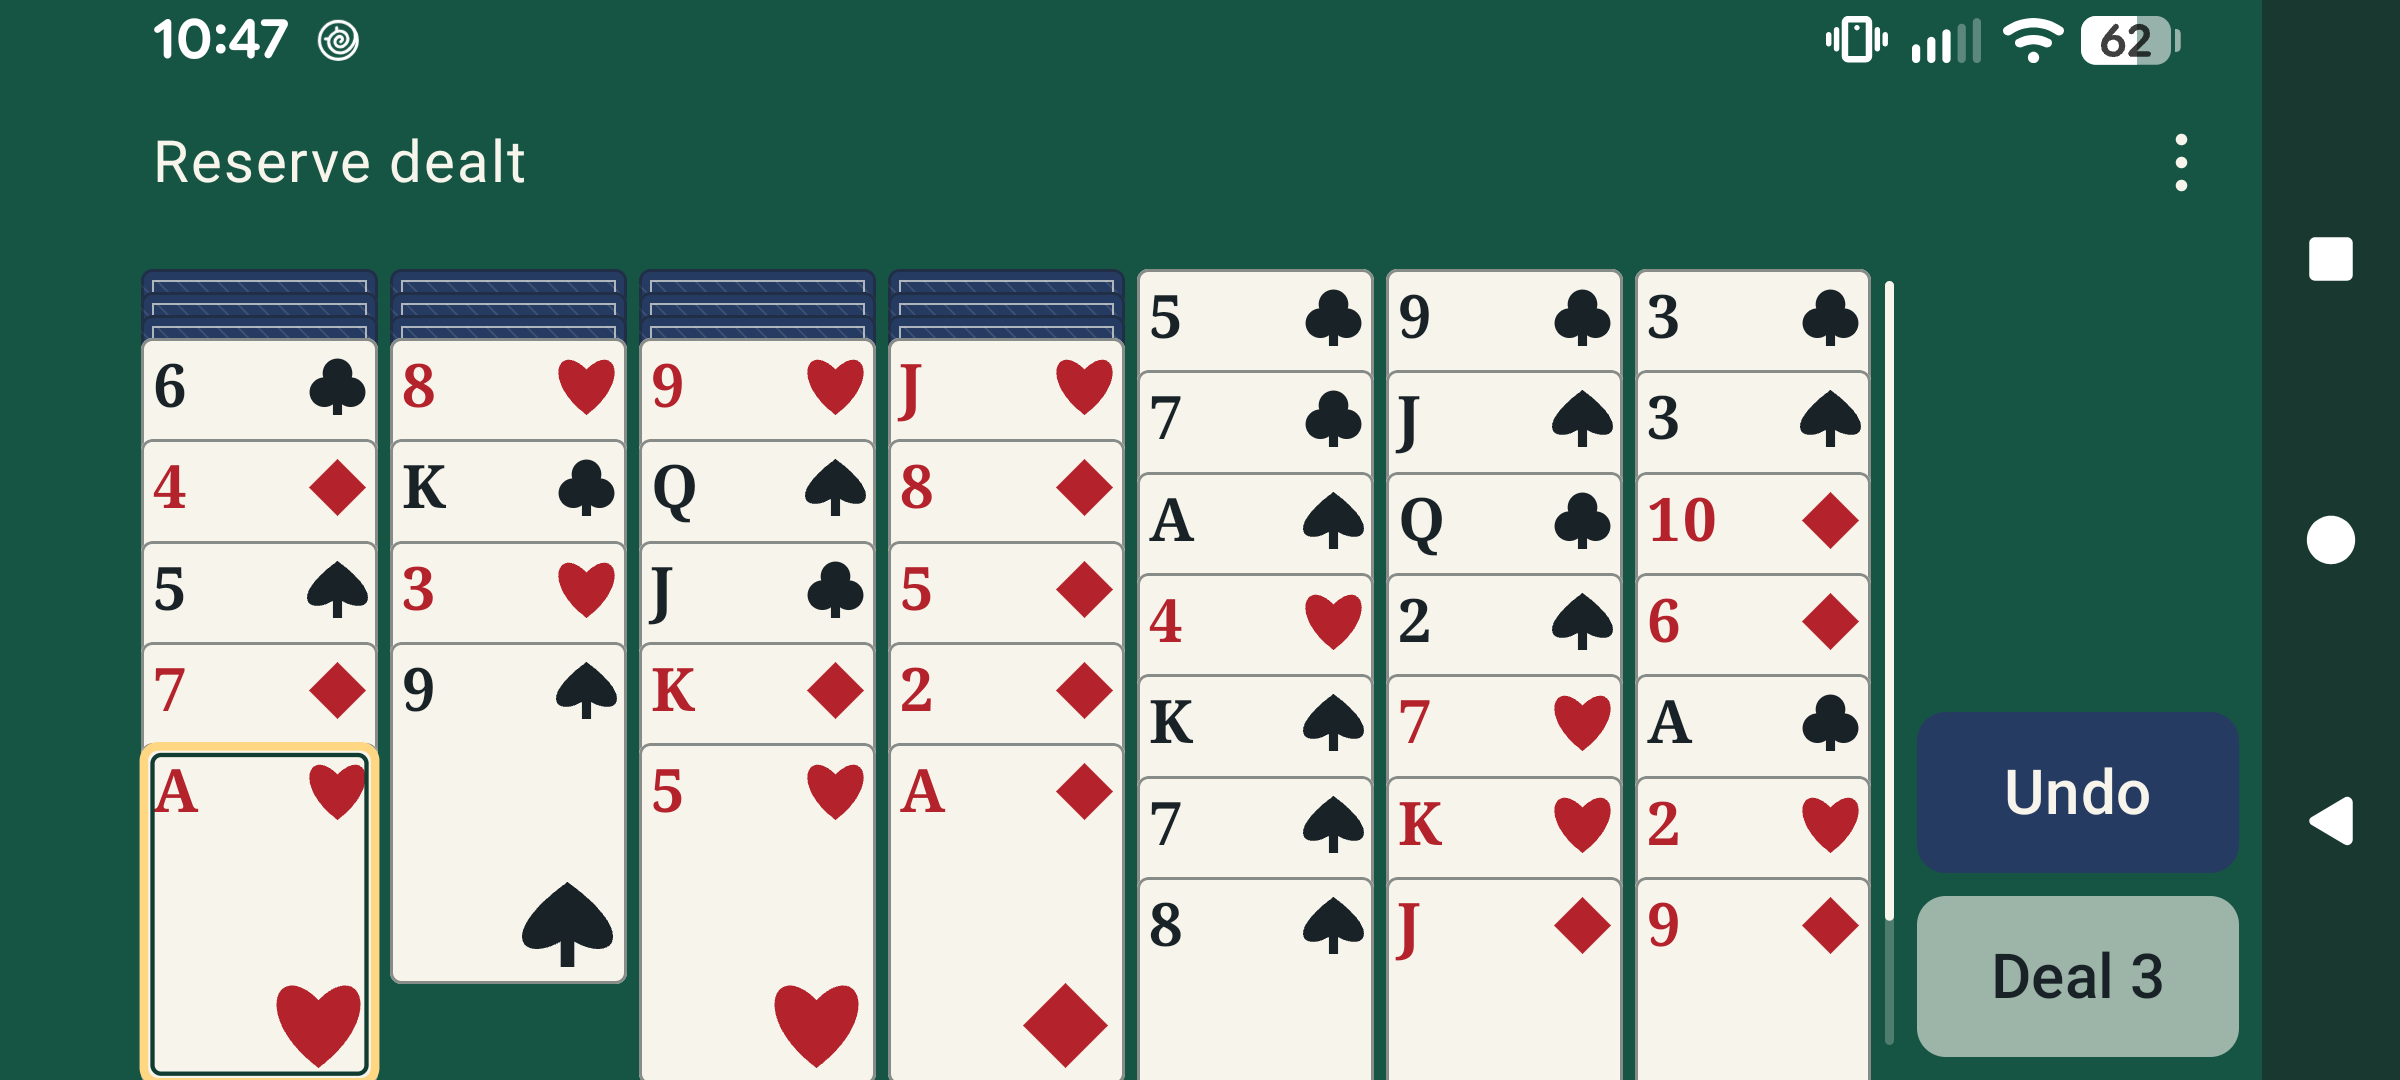
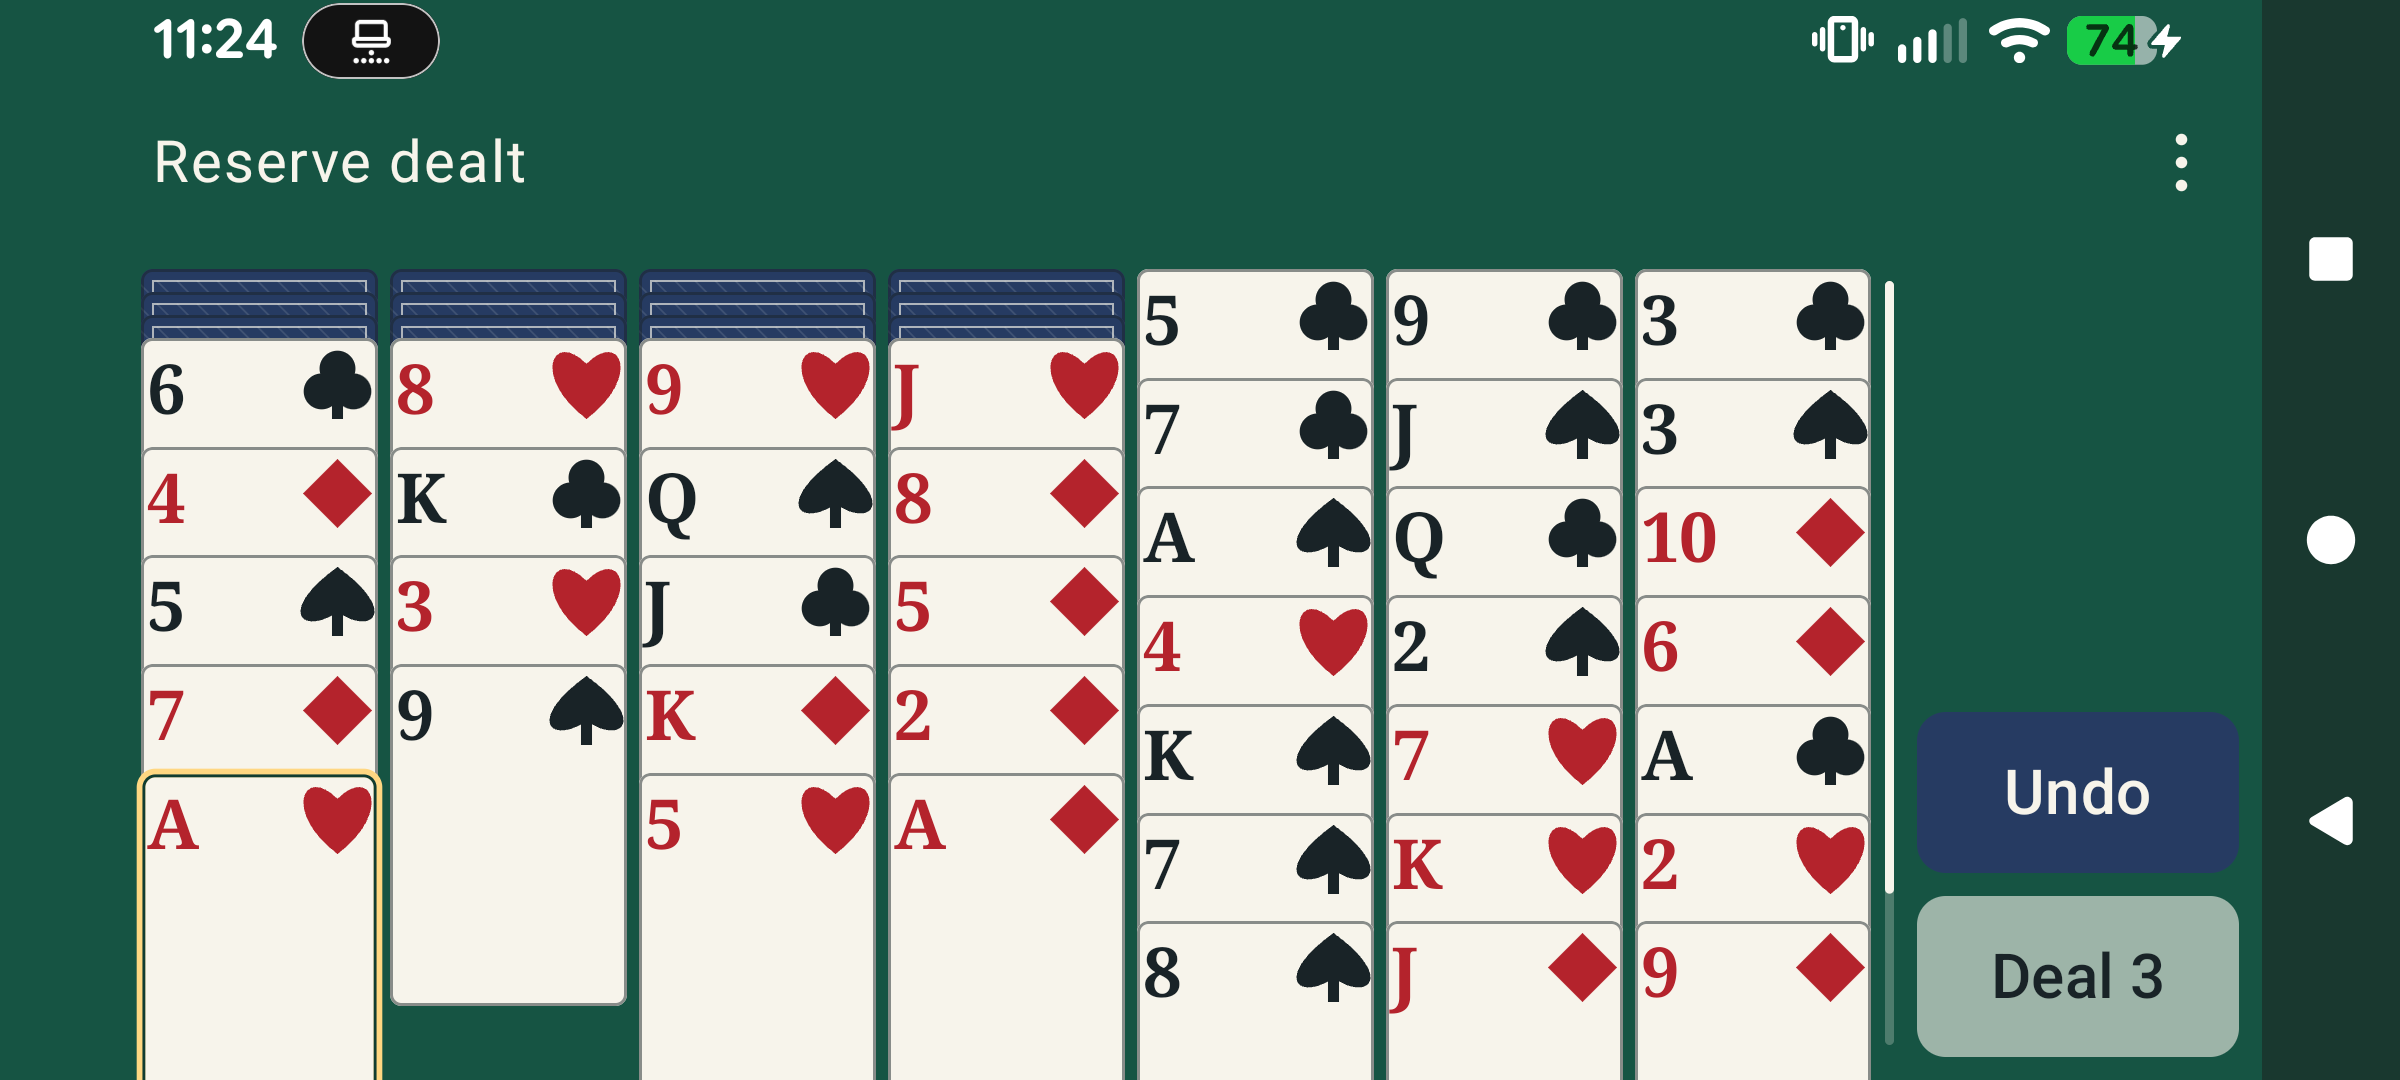
Document verified enlarged corner indices and refreshed Pixel screenshots

diff --git a/docs/phase4d-interface.md b/docs/phase4d-interface.md
@@ -41,20 +41,18 @@ Each column exposes native custom accessibility actions for every exposed card, 
 
 Normal selection, illegal-tap cancellation and success feedback have a polite live region without a visible selection toolbar. Storage errors, stale-state notices and victory are readable visible feedback. Confirmations retain existing reset predicates and use explicit Restart / New Game action labels.
 
-## Previous verified implementation and test results
+## Verified implementation and test results
 
-The following records the previous spacing build; the new corner-index revision is undergoing fresh CI/device validation.
-
-Application/test code head **`7e2fb38e20ddd85787d6b6e849950a26a8b3bea8`** passed [CI run 41327874017](https://github.com/FoxyLight/Wasp-Solitaire/actions/runs/41327874017):
+Application/test code head **`b34eb2cb985c1e5c8b1403ecdac033025c1bd69c`** passed [CI run 41331064722](https://github.com/FoxyLight/Wasp-Solitaire/actions/runs/41331064722):
 
 | Check | Actual result and evidence |
 | --- | --- |
-| [verify](https://github.com/FoxyLight/Wasp-Solitaire/actions/runs/41327874017/job/124911541213) | Android application/test APKs compiled; downloaded JUnit XML: **41 tests, zero failures/errors/skips** (17 pure engine, 24 application JVM). |
-| [emulator](https://github.com/FoxyLight/Wasp-Solitaire/actions/runs/41327874017/job/124911860819) | Android 15 / API 35, x86_64 AVD `test`, system animations disabled: **23 tests, zero failures/errors/skips**, 51.016 seconds in downloaded JUnit XML. |
-| Pixel 7a instrumentation | Installed the matched app/test APK pair from that verify artifact. Android 17 / API 37, physical 1080×2400px, density override 460, default font scale 1.3: **OK (23 tests)** in **71.149 seconds**. Actual rotation and recreation included. |
-| Owner-assisted TalkBack | On the same Pixel with build `270f09689faa4ec7f8044e062aea1c4832aa0988`, the owner confirmed all four checks worked and announcements were clear: card identity/column/tail count, legal movement, illegal-tap cancellation without movement, and Undo. The agent observed service binding/focus but does not claim to have heard the speaker. Subsequent changes prevent stale cancellation notices and compact visual spacing; labels and action semantics are unchanged. The full custom-action/keyboard suite passed again on the spacing refinement; the owner speech check was not repeated. |
+| [verify](https://github.com/FoxyLight/Wasp-Solitaire/actions/runs/41331064722/job/124921076469) | Android application/test APKs compiled; downloaded JUnit XML: **41 tests, zero failures/errors/skips** (17 pure engine, 24 application JVM). |
+| [emulator](https://github.com/FoxyLight/Wasp-Solitaire/actions/runs/41331064722/job/124921467375) | Android 15 / API 35, x86_64 AVD `test`, system animations disabled: **23 tests, zero failures/errors/skips**, 57.009 seconds in downloaded JUnit XML. |
+| Pixel 7a instrumentation | Installed the matched app/test APK pair from that verify artifact. Android 17 / API 37, physical 1080×2400px, density override 460, default font scale 1.3: **OK (23 tests)** in **71.236 seconds**. Actual rotation and recreation included. |
+| Owner-assisted TalkBack | On the same Pixel with build `270f09689faa4ec7f8044e062aea1c4832aa0988`, the owner confirmed all four checks worked and announcements were clear: card identity/column/tail count, legal movement, illegal-tap cancellation without movement, and Undo. The agent observed service binding/focus but does not claim to have heard the speaker. Subsequent changes prevent stale cancellation notices and enlarge/reposition visual indices and compact spacing; labels and action semantics are unchanged. The full custom-action/keyboard suite passed again on the corner-index refinement; the owner speech check was not repeated. |
 
[2 lines of base64/hex data omitted]
 
 The final evidence/report commit changes documentation only. Its exact PR head and **both required CI job results on that head** are recorded in [PR #22](https://github.com/FoxyLight/Wasp-Solitaire/pull/22); do not infer a final-head pass from the earlier code-head run above. The workstation has no configured Android SDK, so no local Android build pass is claimed. Builds ran in CI; matched APKs ran on the real device.
 
@@ -70,6 +68,8 @@ The final evidence/report commit changes documentation only. Its exact PR head a
 | Adaptive controls / large text | Same composition/session exercised at **320×640**, **390×780**, **640×320**, **800×1000dp**, plus **320×640**, **700×360** and **640×320dp at 200% text**. Primary/menu targets measured at least 48dp; reserve/Undo and actual legal taps run in each configuration. |
 | Lifecycle / resizing | Real MainActivity recreation and requested landscape rotation retain ViewModel/session/selection; Compose configuration overrides exercise window/font transitions. No process-death recovery claim. |
 | Accessible input | Native column actions expose all 52 source choices in the crowded fixture; legal destination actions and cancellation preserve engine validation. Selected start/attached count/hidden descriptions asserted. Keyboard Up/Down, Enter and explicit destination commit exercised without dragging. Owner listened to TalkBack as recorded above. |
+
+The corner-index screenshot review also caught the selected inner border crossing the newly enlarged glyphs; moving the outline to the card perimeter resolved that overlap. The full 13-card suited runs fit the reviewed default Pixel victory viewport with readable indices. This is one fixture/configuration, not a claim that arbitrary long columns fit without scrolling.
 
 Visual review found and corrected undersized controls in inset-heavy short windows, selected-state feedback hiding storage errors, a scroll marker covering the last column, and a stale drag-cancellation notice after a successful tap. Tests retain minimum-target and state assertions. The old viewport test tried to scroll an entire width-driven card into a window shorter than that card; it now verifies each exposed rank/suit header is scroll-reachable, with a timeout, while physical move tests still execute every legal seeded move. Screenshot capture uses native viewports; no tests, branch protection, CI gates or engine invariants were weakened.
 
@@ -89,10 +89,11 @@ All seven application images below are unmodified native captures from the teste
 
 ### Contrast and motion
 
-[Rendered palette and sRGB contrast check](evidence/phase4d/contrast-check.json) from the earlier `dec32f8` build samples actual Pixel pixels (palette/rendering colors are unchanged by the spacing refinement) and verifies the intended fill colors are present. Black/ivory **14.56:1**, red/ivory **5.93:1**, table text/green **8.01:1**, Undo text/blue **10.13:1**, disabled Undo text/rendered background **9.33:1**, selected dark inner boundary/ivory **11.15:1**. Gold/ivory alone is **1.25:1** and is supplementary to the dark edge, shape and native selected semantics. This is fill-pair validation and visual review, not a blanket accessibility certification. Native Material feedback remains system-aware; no custom transition requires motion, and the full CI suite runs with system animations disabled.
+[Rendered palette and sRGB contrast check](evidence/phase4d/contrast-check.json) from the earlier `dec32f8` build samples actual Pixel pixels (palette colors are unchanged by the corner-index refinement) and verifies the intended fill colors are present. Black/ivory **14.56:1**, red/ivory **5.93:1**, table text/green **8.01:1**, Undo text/blue **10.13:1**, disabled Undo text/rendered background **9.33:1**, selected dark inner boundary/ivory **11.15:1**. Gold/ivory alone is **1.25:1** and is supplementary to the dark edge, shape and native selected semantics. This is fill-pair validation and visual review, not a blanket accessibility certification. Native Material feedback remains system-aware; no custom transition requires motion, and the full CI suite runs with system animations disabled.
 
 ## Remaining usability limits
 
+- Normal layouts use the approved enlarged corner indices. Narrow 200% text layouts stack rank/suit to prevent collisions; wide large-text windows can retain the corner row.
 - Very long columns and 200% short windows require scrolling; a whole card may be taller than the usable viewport. Rank/suit headers and direct source/destination actions remain reachable. There is no expanded inspection screen or drag edge auto-scroll, by approved scope; dragging is never the only legal route.
 - Column action lists can be long for a heavily crowded column. The 52-source fixture verifies completeness, not that a long native action list is effortless for every screen-reader user.
 - Keyboard and TalkBack were exercised as described. A dedicated physical Switch Access device was not available, and is not certified by the custom-action tests. Testing did not separately exercise a real foldable hinge, split-screen keyboard/IME, every navigation mode or every OEM window manager. Configuration overrides are not additional physical devices.
